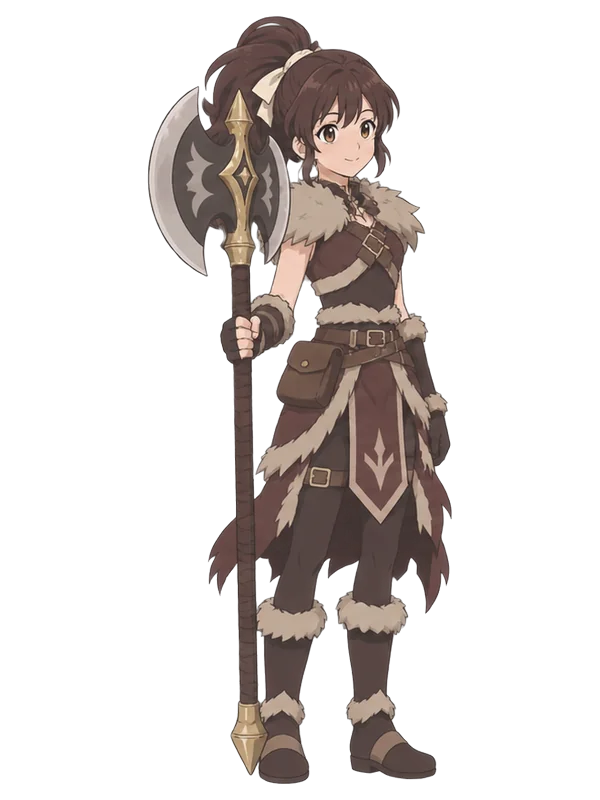
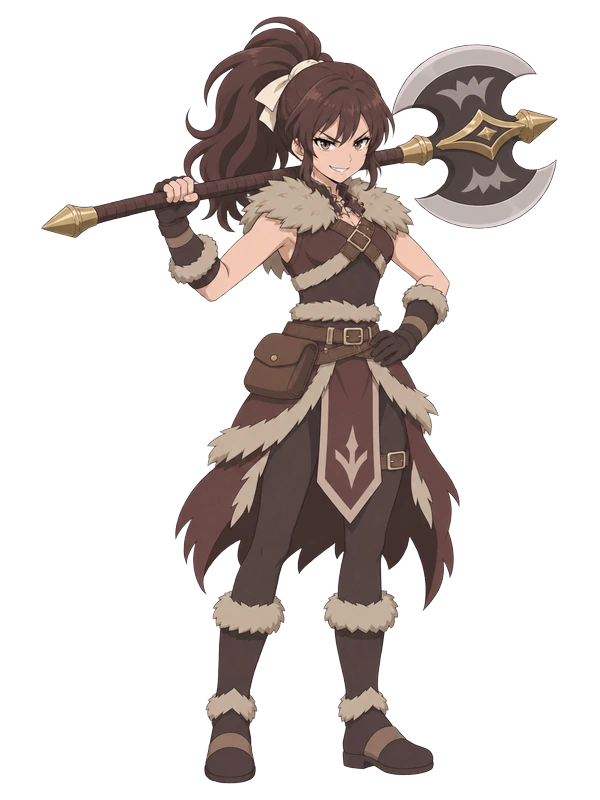
v15.5 狂戰士一般站姿重畫（斧頭扛肩、表情調整）
Claude-Session: https://claude.ai/code/session_014oWtzJimN2qi28cgaLB2Wn

Changed region(s): [[0.06, 0.0, 0.93, 1.0]]

diff --git a/index.html b/index.html
@@ -2956,6 +2956,7 @@ function loadCode(code){try{const [v,b,c]=code.trim().split('.');if(v!=='AO1')th
 
 /* ============ 公告與限時活動 ============ */
 const NEWS=[
+  {v:'15.5',d:'2026-11-26',t:'狂戰士立繪調整',b:'狂戰士（男／女）一般站姿重畫：巨斧改扛在肩上，表情換成帶挑釁的笑。'},
   {v:'15.4',d:'2026-11-26',t:'全自動進得了大副本、掛機有保底',b:'①全自動：會一路深入大副本，回城後再進同一個副本與難度；換裝會顧著身上的流派。②自動戰鬥：首領蓄力時先打斷或防禦，不再先補血；纏霧時會挑多段招式。③背景掛機：每 3 小時保底一件稀有以上，雜裝變少。④「收割」共鳴：敵人半血以下打更痛。祭司「祈禱」小幅加強。'},
   {v:'15.3',d:'2026-11-26',t:'難度與遊俠調整',b:'配裝變強了，大副本的困難與煉獄跟著變硬。遊俠的連射打法加強。'},
   {v:'15.2',d:'2026-11-26',t:'戰法併入流派',b:'不再手動切換戰法：身上湊出特定共鳴，打法就會自己改變。流派名稱拿掉「流」字。'},

diff --git a/sw.js b/sw.js
@@ -1,4 +1,4 @@
-const C='ao-art-v67';
+const C='ao-art-v68';
 self.addEventListener('install',e=>self.skipWaiting());
 self.addEventListener('activate',e=>e.waitUntil(caches.keys().then(ks=>Promise.all(ks.filter(k=>k.startsWith('ao-art')&&k!==C).map(k=>caches.delete(k)))).then(()=>self.clients.claim())));
 const get=(req,n)=>fetch(req).catch(err=>n>0?new Promise(r=>setTimeout(r,800)).then(()=>get(req,n-1)):Promise.reject(err));

diff --git a/DEV_NOTES.md b/DEV_NOTES.md
@@ -366,3 +366,6 @@
 - 實測（困難／煉獄，自動戰鬥）：翠原迷森 v15.3 倍率下 8/12、10/12；祭司依詞綴差很多：先機 8/10、烈焰 8/10、震擊 10/10、收割 5/12（收割對首領偏弱，屬刷怪續航詞綴）。
 - 未量：霧都長征遊俠（連射加強後）。
 - 測試：/tmp/sim/fadg.py（全自動跑副本）、idle.py（掛機結算）。
+
+## v15.5（2026-11-26）
+- `class_berserker_m/f` 重畫（網頁 ChatGPT）：斧頭扛右肩、挑釁笑容；腳底對齊舊圖、等高 768px。頭像 `portrait_berserker_*` 與 `an_*_fn` 未動。
